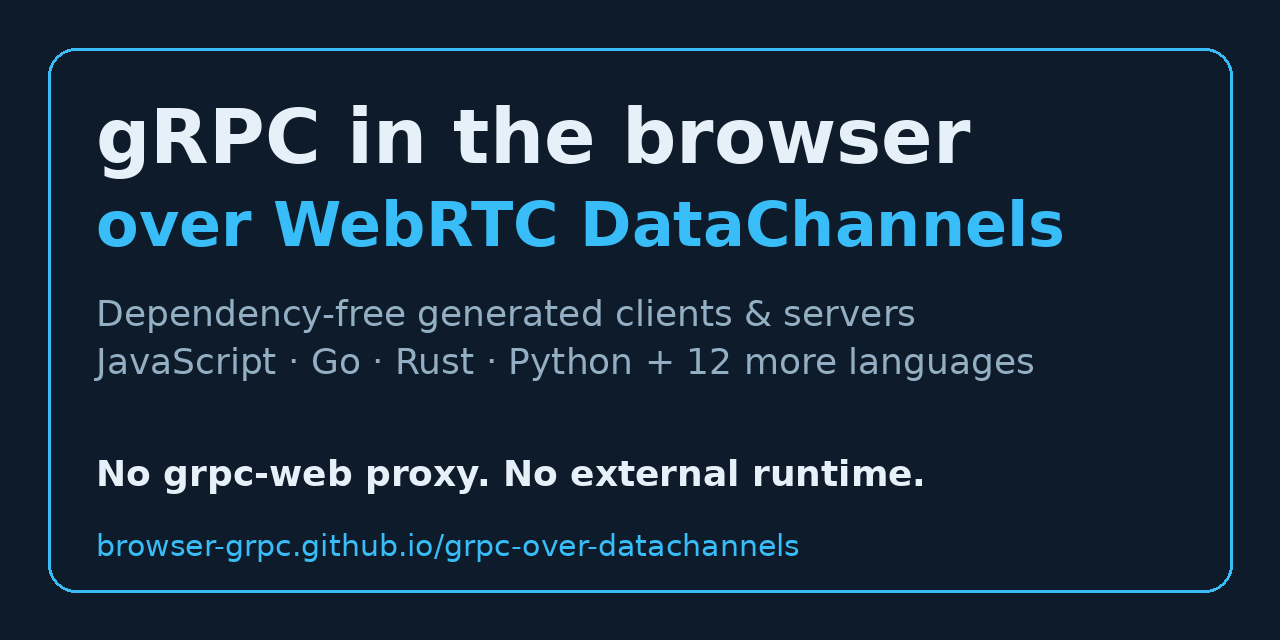
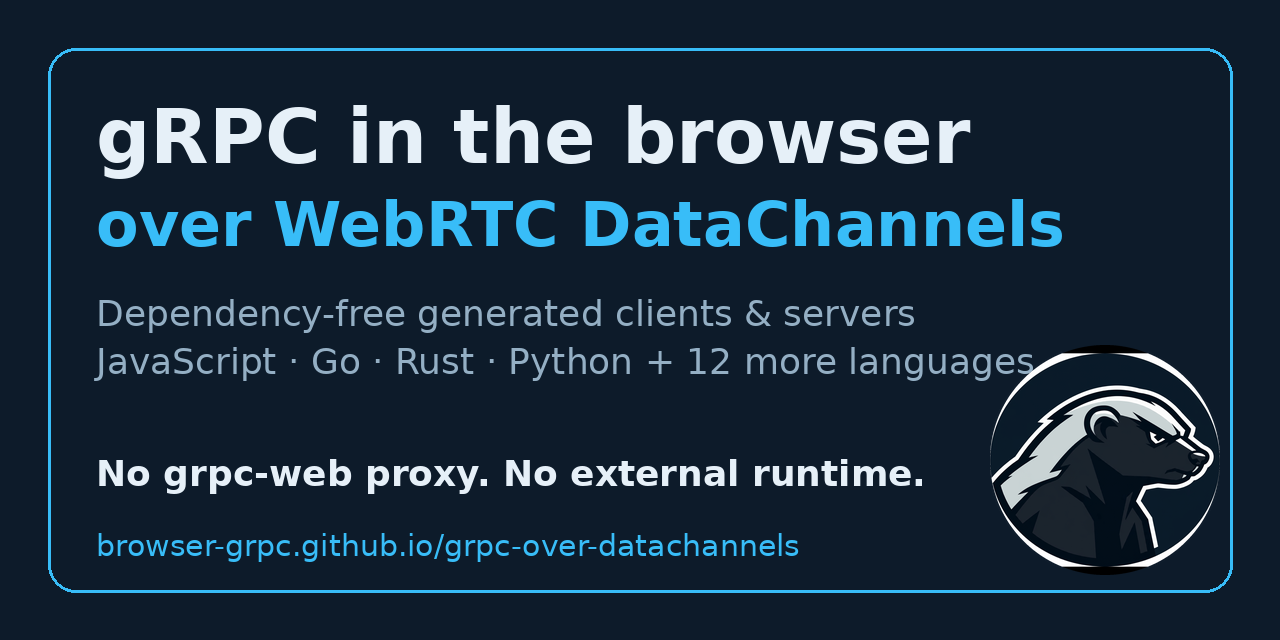
brand: honey badger mascot across repo, site, app, social card
- docs/badger/: master artwork + derived 1024..16 PNGs and
  multi-size favicon.ico (scripts/render-badger.py derives
  them; circle-cropped, transparent corners)
- social-preview.png now carries the badger (render-social)
- releasegen: export ships docs/badger/ + docs/favicon.ico;
  landing page gets favicon links + header badger; README
  and org profile get the mascot; app ships favicon set
- webapp: favicon.ico/16/32 + apple-touch-icon + og:image
- CHANGELOG v0.32.2 (supersedes unpublished v0.32.1)

Changed region(s): [[0.7812, 0.5625, 0.9688, 0.9062], [0.7812, 0.5312, 0.9062, 0.625]]

diff --git a/webapp/index.html b/webapp/index.html
@@ -4,6 +4,11 @@
 <title>gRPC in the Browser — WebRTC DataChannel protoc Generator | grpc-over-datachannels</title>
 <meta name="description" content="Generate gRPC clients and servers that run in the browser over WebRTC DataChannels. Paste a .proto schema and get dependency-free stubs for JavaScript, Go, Rust, Python and 12 more languages — the real protoc plugins, running entirely in this page. No grpc-web proxy, no server.">
 <link rel="canonical" href="https://browser-grpc.github.io/grpc-over-datachannels/app/">
+<link rel="icon" href="favicon.ico" sizes="16x16 32x32 48x48">
+<link rel="icon" type="image/png" sizes="32x32" href="favicon-32.png">
+<link rel="icon" type="image/png" sizes="16x16" href="favicon-16.png">
+<link rel="apple-touch-icon" sizes="180x180" href="apple-touch-icon.png">
+<meta property="og:image" content="https://browser-grpc.github.io/grpc-over-datachannels/badger/honey-badger-512.png">
 <meta property="og:type" content="website">
 <meta property="og:site_name" content="grpc-over-datachannels">
 <meta property="og:title" content="gRPC in the Browser — WebRTC DataChannel protoc Generator">

diff --git a/scripts/render-badger.py b/scripts/render-badger.py
@@ -1,0 +1,48 @@
+#!/usr/bin/env python3
+"""Derive the honey-badger icon set from the master artwork.
+
+    python3 scripts/render-badger.py docs/badger/honey-badger-source.png
+
+Writes docs/badger/honey-badger-<px>.png (1024..16, transparent
+corners outside the badge circle) and docs/badger/favicon.ico
+(16/32/48). The source PNG is the generated master; derived
+files are committed and copied into every public export.
+"""
+import sys
+from pathlib import Path
+
+from PIL import Image, ImageDraw
+
+SIZES = [1024, 512, 256, 180, 128, 64, 48, 32, 16]
+
+
+def main():
+    src = Path(sys.argv[1] if len(sys.argv) > 1 else "docs/badger/honey-badger-source.png")
+    out_dir = src.parent
+    img = Image.open(src).convert("RGB")
+    # Crop to the badge circle: bounding box of non-white pixels.
+    gray = img.convert("L")
+    mask = gray.point(lambda p: 255 if p < 240 else 0)
+    box = mask.getbbox()
+    if box is None:
+        raise SystemExit("render-badger: no non-white content found")
+    cx, cy = (box[0] + box[2]) // 2, (box[1] + box[3]) // 2
+    half = max(box[2] - box[0], box[3] - box[1]) // 2
+    img = img.crop((cx - half, cy - half, cx + half, cy + half))
+    master = img.resize((1024, 1024), Image.LANCZOS).convert("RGBA")
+    # Transparent corners outside the circle.
+    alpha = Image.new("L", (1024, 1024), 0)
+    ImageDraw.Draw(alpha).ellipse([0, 0, 1023, 1023], fill=255)
+    master.putalpha(alpha)
+    for size in SIZES:
+        frame = master if size == 1024 else master.resize((size, size), Image.LANCZOS)
+        dest = out_dir / f"honey-badger-{size}.png"
+        frame.save(dest)
+        print(f"render-badger: wrote {dest} ({size}x{size})")
+    ico = out_dir / "favicon.ico"
+    master.save(ico, sizes=[(16, 16), (32, 32), (48, 48)])
+    print(f"render-badger: wrote {ico} (16/32/48)")
+
+
+if __name__ == "__main__":
+    main()

diff --git a/scripts/render-social.py b/scripts/render-social.py
@@ -45,6 +45,12 @@ def main():
            font=font(36), fill=FG)
     d.text((96, 528), "browser-grpc.github.io/grpc-over-datachannels",
            font=font(30, bold=False), fill=ACCENT)
+    try:
+        badger = Image.open("docs/badger/honey-badger-1024.png").convert("RGBA")
+        badger = badger.resize((230, 230), Image.LANCZOS)
+        img.paste(badger, (990, 345), badger)
+    except OSError:
+        pass  # text-only card still valid
     img.save(out)
     print(f"render-social: wrote {out} ({W}x{H})")
 

diff --git a/CHANGELOG.md b/CHANGELOG.md
@@ -3,6 +3,20 @@
 All notable changes to grpc-over-datachannels. Versions are
 curated release tags on `master`; dates are the tag dates.
 
+## v0.32.2 — 2026-10-24
+
+- Honey badger mascot across the project: master artwork
+  plus derived resolutions (1024–16 px) and a multi-size
+  favicon.ico under docs/badger/ (generator:
+  scripts/render-badger.py). Wired into the GitHub social
+  card, the Pages landing page (header image + favicons),
+  the in-browser generator app (favicon set, apple-touch
+  icon, og:image), the repo README, and the org profile.
+  GitHub org/repo avatar upload stays a manual step from
+  docs/badger/honey-badger-512.png (no API for avatars).
+- Includes everything in v0.32.1 (superseded before its
+  separate public publish).
+
 ## v0.32.1 — 2026-10-24
 
 - Browser-examples index is now covered in all three

diff --git a/README.md b/README.md
@@ -1,5 +1,7 @@
 # gRPC over WebRTC DataChannels
 
+<p align="center"><img src="docs/badger/honey-badger-256.png" width="160" alt="Honey badger mascot — small, fearless, goes anywhere the web goes"></p>
+
 gRPC over a single `RTCDataChannel` — no HTTP/2, no servers to reach:
 many concurrent calls (unary, server-, client-, and bidirectional
 streaming) are multiplexed onto one ordered, reliable data channel
